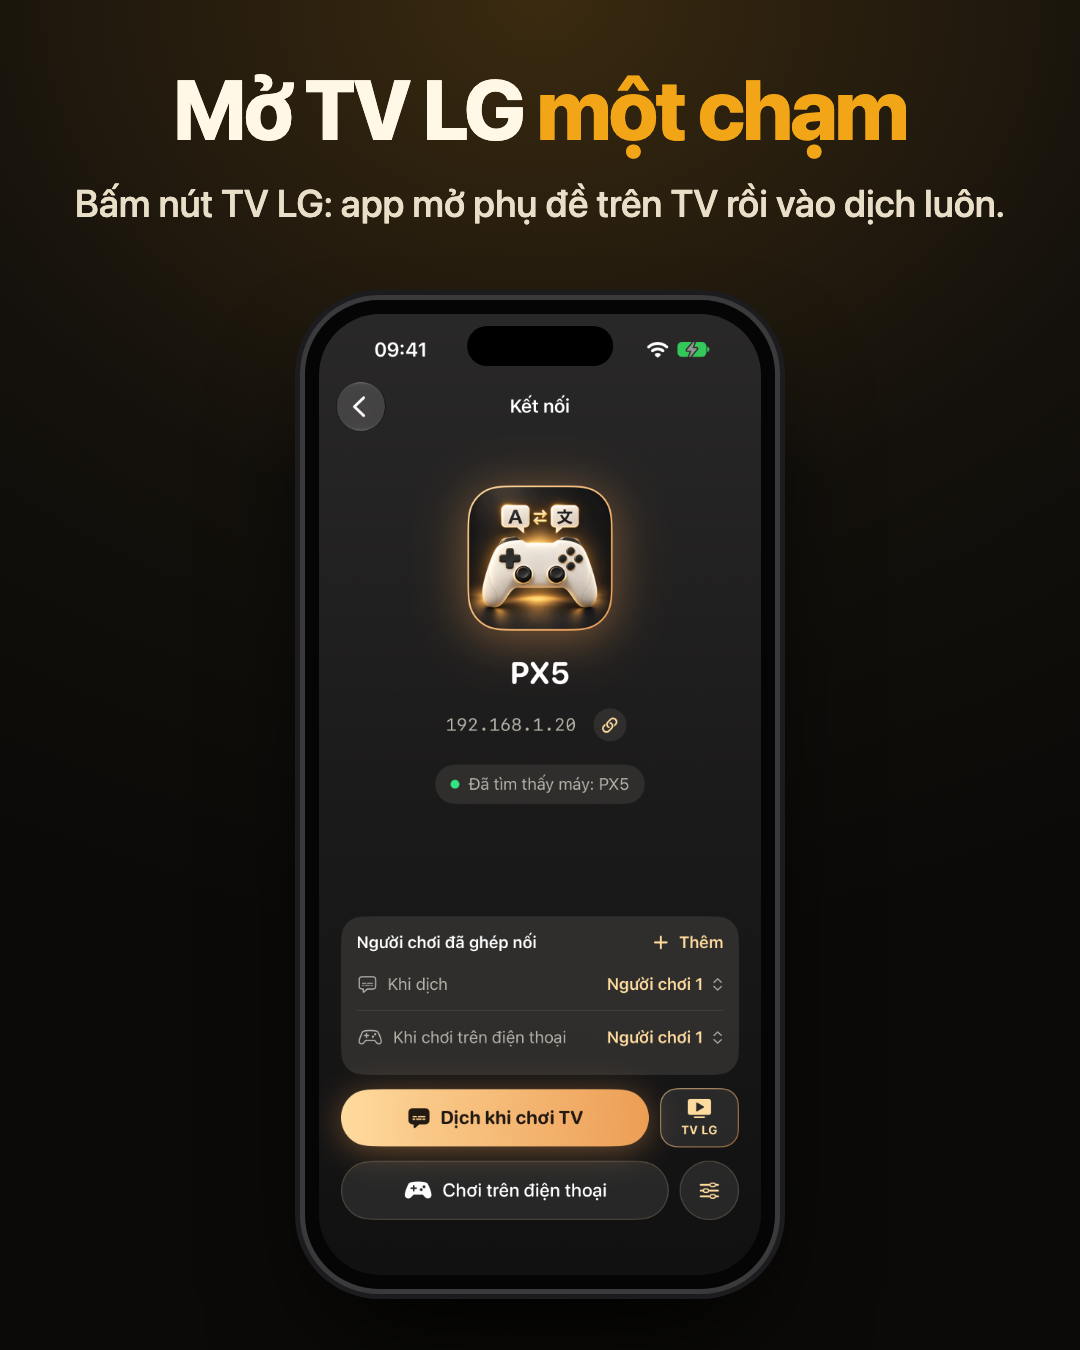
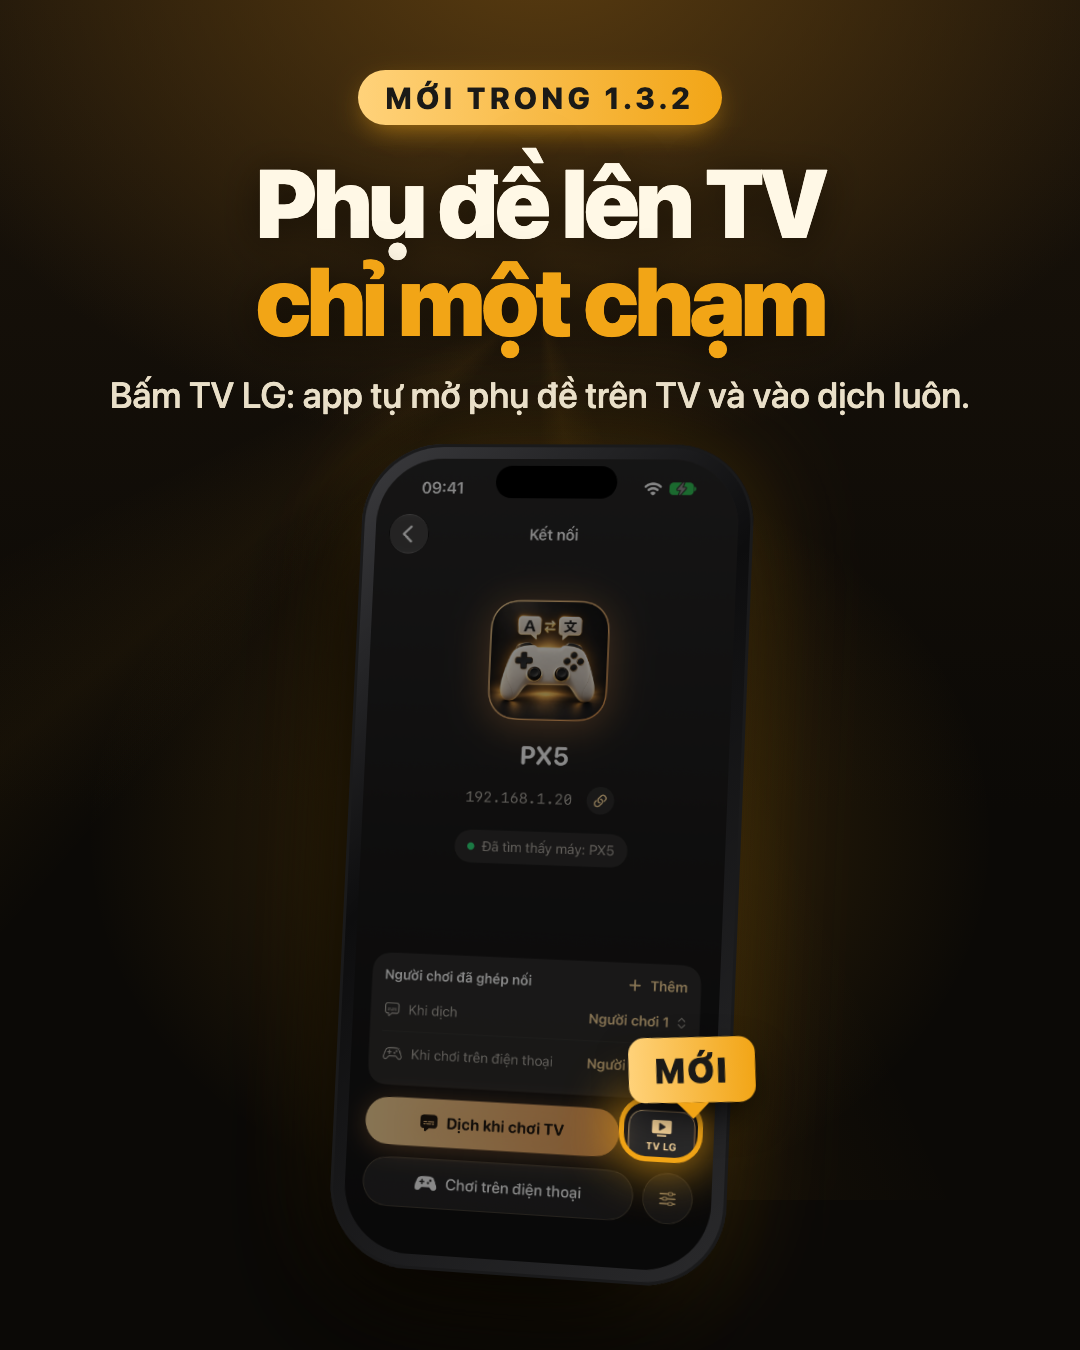
Telegram post: ad style (headline, stage light, tilted iPhone, new control lit with a MỚI tag)

Changed region(s): [[0.0611, 0.0, 0.9167, 0.9644]]

diff --git a/posts/index.html b/posts/index.html
@@ -5,25 +5,40 @@
 <meta name="viewport" content="width=device-width, initial-scale=1">
 <title>Telegram Posts</title>
 <!--
-  Telegram post image: a title on top, one iPhone screenshot below. 1080x1350.
+  Telegram post image: headline on top, one iPhone screenshot below, the new control lit up. 1080x1350.
   index.html          : every post, small
   index.html?post=ID  : one post full size, for export
-  New post: add one entry to POSTS (phone = a file in ../appstore/raw).
+  New post: add one entry to POSTS. phone = file in ../appstore/raw; hl = the new control on the
+  screenshot as [left, top, width, height] in % of the screenshot; tag = the label beside it.
 -->
 <style>
-  :root { --amber: #f2a516; --cream: #fff8e6; }
+  :root { --amber: #f2a516; --gold: #ffd27a; --cream: #fff8e6; }
   * { box-sizing: border-box; margin: 0; }
   body { font-family: -apple-system, BlinkMacSystemFont, "SF Pro Display", "Segoe UI", sans-serif; background: #f2f2f7; }
-  .card { width: 1080px; height: 1350px; position: relative; overflow: hidden; color: var(--cream); text-align: center;
-    background: radial-gradient(110% 70% at 50% 0%, #3a2a10 0%, #14110c 55%, #0b0a08 100%); }
-  .cap { position: absolute; top: 64px; left: 60px; right: 60px; }
-  h1 { font-size: 84px; line-height: 1.08; font-weight: 800; letter-spacing: -.03em; }
+  .card { width: 1080px; height: 1350px; position: relative; overflow: hidden; color: var(--cream); text-align: center; background: #0b0906; }
+  /* warm stage light behind the phone, a soft floor glow */
+  .card::before { content: ""; position: absolute; inset: 0;
+    background:
+      radial-gradient(60% 40% at 50% 62%, #f2a51633 0%, transparent 70%),
+      radial-gradient(90% 55% at 50% -5%, #5a3c10 0%, transparent 70%),
+      linear-gradient(180deg, #1a130a 0%, #0b0906 60%); }
+  .card::after { content: ""; position: absolute; left: -10%; right: -10%; top: 300px; height: 900px; opacity: .5;
+    background: conic-gradient(from 200deg at 50% 0%, transparent 0 20deg, #f2a51618 30deg, transparent 45deg, transparent 315deg, #f2a51618 330deg, transparent 340deg); }
+  .cap { position: absolute; top: 70px; left: 50px; right: 50px; z-index: 2; }
+  .eyebrow { display: inline-block; font-size: 30px; font-weight: 800; letter-spacing: .14em; color: #1b1a17;
+    background: linear-gradient(90deg, var(--gold), var(--amber)); padding: 10px 28px; border-radius: 999px; margin-bottom: 28px; box-shadow: 0 10px 30px -8px #f2a516aa; }
+  h1 { font-size: 96px; line-height: 1.02; font-weight: 900; letter-spacing: -.04em; text-shadow: 0 6px 40px #0008; }
   h1 em { font-style: normal; color: var(--amber); }
-  .cap p { font-size: 38px; line-height: 1.35; margin-top: 22px; color: #e9dfc8; font-weight: 500; }
-  .phone { position: absolute; left: 50%; transform: translateX(-50%); top: 300px; width: 470px; border-radius: 74px; padding: 14px; background: #050505;
-    box-shadow: 0 0 0 5px #3a3a3c, 0 0 0 10px #1c1c1e, 0 60px 120px -30px #000; }
-  .phone img { display: block; width: 100%; border-radius: 61px; }
+  .cap p { font-size: 36px; line-height: 1.35; margin-top: 22px; color: #e9dfc8; font-weight: 500; }
+  .stage { position: absolute; left: 50%; top: 440px; width: 400px; transform: translateX(-50%) perspective(2200px) rotateY(-10deg) rotateX(3deg) rotateZ(2deg); z-index: 1; }
+  .phone { position: relative; border-radius: 82px; padding: 15px; background: linear-gradient(135deg, #3b3b3e, #0d0d0e 40%, #2a2a2c);
+    box-shadow: inset 0 0 0 3px #1a1a1b, -30px 60px 120px -20px #000, 0 0 120px -20px #f2a51655; }
+  .phone img { display: block; width: 100%; border-radius: 68px; }
   .phone::after { content: ""; position: absolute; top: 2.65%; left: 50%; transform: translateX(-50%); width: 31%; height: 4%; background: #000; border-radius: 999px; }
+  .hl { position: absolute; border-radius: 22px; box-shadow: 0 0 0 5px var(--amber), 0 0 50px 10px #f2a516cc, 0 0 0 2000px #0007; }
+  .tag { position: absolute; z-index: 3; font-size: 34px; font-weight: 900; color: #1b1a17; letter-spacing: .06em;
+    background: linear-gradient(90deg, var(--gold), var(--amber)); padding: 12px 26px; border-radius: 16px; box-shadow: 0 16px 40px -10px #000; transform: rotate(-4deg); }
+  .tag::after { content: ""; position: absolute; left: 50%; bottom: -16px; transform: translateX(-50%); border: 16px solid transparent; border-top-color: var(--amber); border-bottom: 0; }
   .grid { display: flex; flex-wrap: wrap; gap: 20px; padding: 20px; }
   .grid .wrap { width: 378px; height: 473px; overflow: hidden; border-radius: 18px; }
   .grid .card { transform: scale(.35); transform-origin: top left; }
@@ -33,9 +48,18 @@
 <div id="root"></div>
 <script>
 const POSTS = [
-  { id: '1.3.2', title: 'Mở TV LG <em>một chạm</em>', text: 'Bấm nút TV LG: app mở phụ đề trên TV rồi vào dịch luôn.', phone: 'connect.png' },
+  { id: '1.3.2', eyebrow: 'MỚI TRONG 1.3.2', title: 'Phụ đề lên TV<br><em>chỉ một chạm</em>',
+    text: 'Bấm TV LG: app tự mở phụ đề trên TV và vào dịch luôn.',
+    phone: 'connect.png', hl: [76, 79.6, 19.6, 6.6], tag: 'MỚI' },
 ];
-const card = p => `<section class="card"><div class="cap"><h1>${p.title}</h1><p>${p.text}</p></div><div class="phone"><img src="../appstore/raw/${p.phone}" alt=""></div></section>`;
+const card = p => {
+  const [x, y, w, h] = p.hl || [];
+  return `<section class="card"><div class="cap"><span class="eyebrow">${p.eyebrow}</span><h1>${p.title}</h1><p>${p.text}</p></div>
+  <div class="stage"><div class="phone"><img src="../appstore/raw/${p.phone}" alt="">
+  ${p.hl ? `<div style="position:absolute;inset:15px;border-radius:68px;overflow:hidden"><div class="hl" style="left:${x}%;top:${y}%;width:${w}%;height:${h}%"></div></div>
+  <div class="tag" style="left:calc(15px + ${x + w / 2}% - 60px);top:calc(15px + ${y}% - 90px)">${p.tag}</div>` : ''}
+  </div></div></section>`;
+};
 const id = new URLSearchParams(location.search).get('post');
 const root = document.getElementById('root');
 if (id) { document.body.style.background = '#000'; root.innerHTML = card(POSTS.find(p => p.id === id)); }
